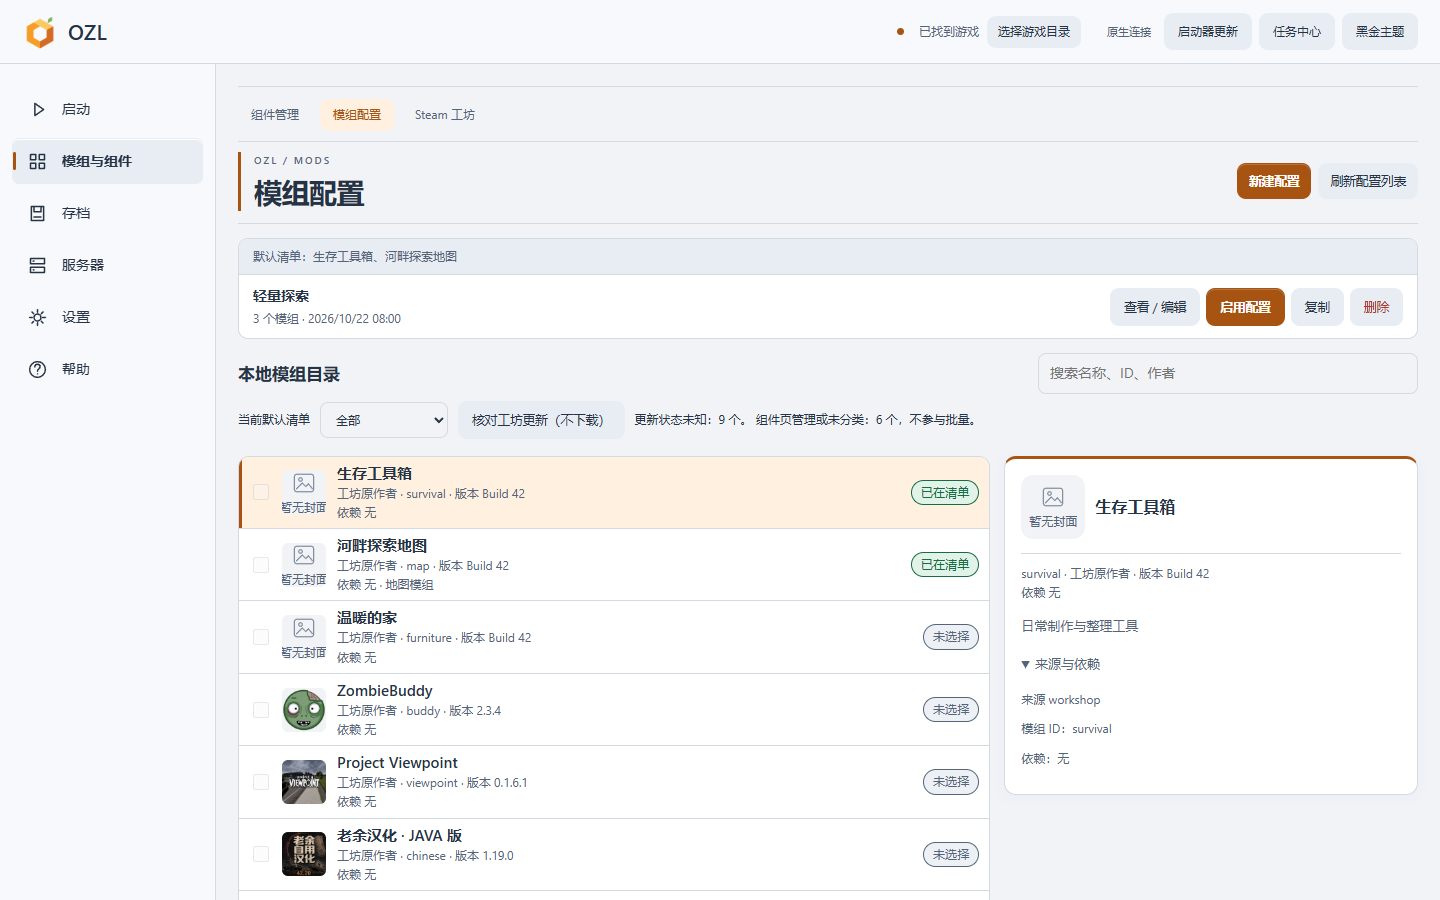
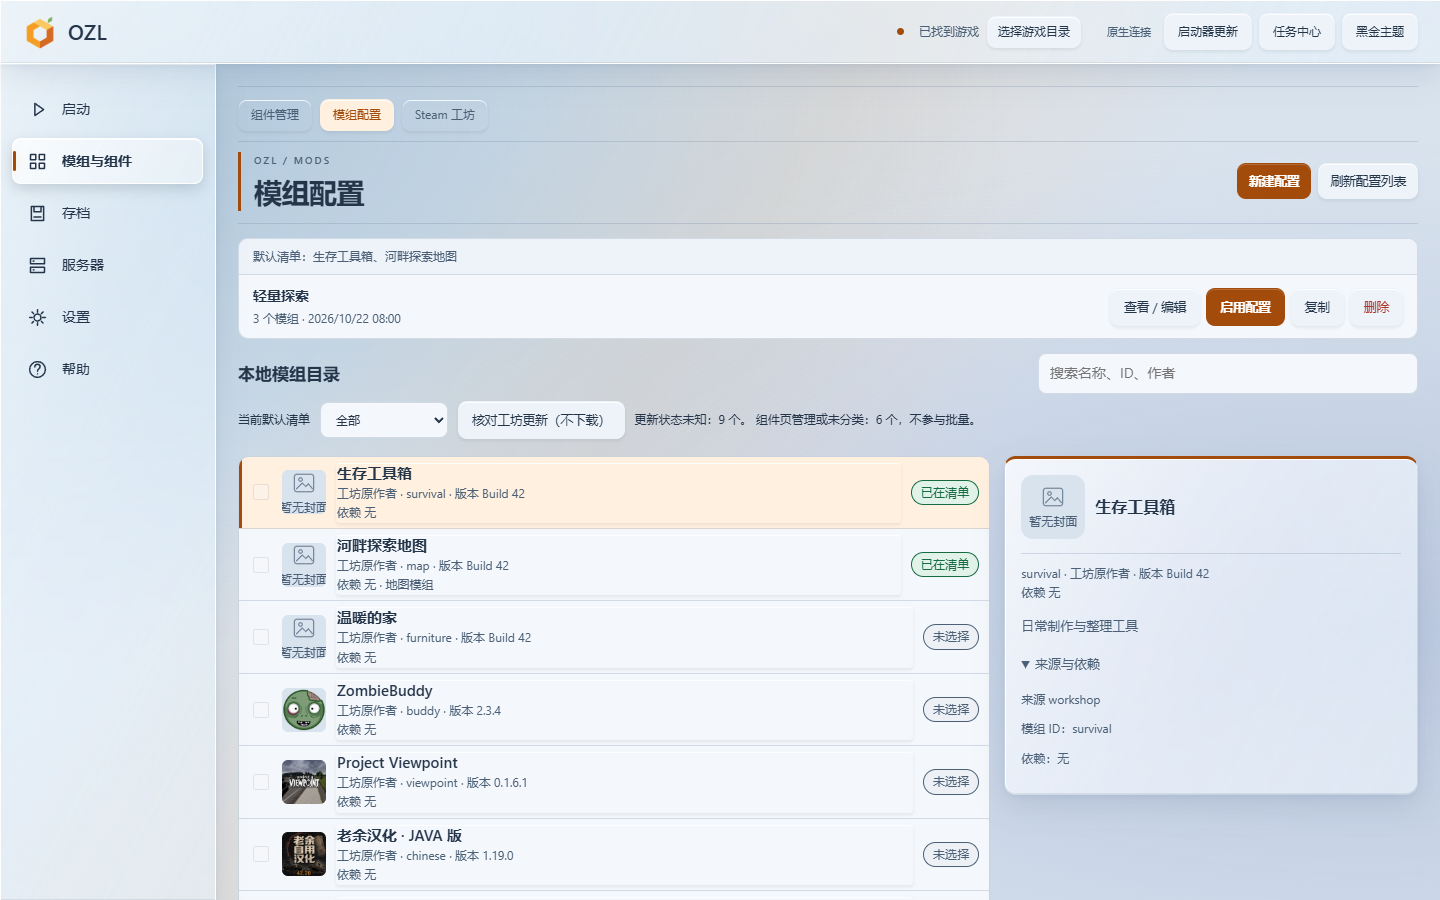
feat(site): match accepted launcher glass and finite selection motion

diff --git a/website/site.css b/website/site.css
@@ -155,6 +155,29 @@ dialog p{font-size:13px;margin:12px 0 0}
 .steps{grid-template-columns:1fr;gap:12px;margin-block:26px 32px}.steps li{position:relative;padding:20px 20px 20px 58px}.steps li::before{position:absolute;left:20px;top:23px;margin:0}.steps h2{font-size:19px}.steps p{font-size:14px}
 .change-entry{grid-template-columns:1fr;gap:14px;padding:22px}.change-version{display:flex;align-items:center;justify-content:space-between;gap:16px}.change-version h2{margin:0}.footer-links{gap:8px 22px}.preview{padding-top:24px}
 }
+/* Milk glass: ambient depth, refracting planes, and lit lens edges. */
+.hero{padding-block:12px 8px}
+:root{--bg:#cdd8e5;--ink:#24364b;--muted:#4c627a;--line:#8da4bd59;--orange:#a4470b;--tint:#fff2e0b8}
+body{background:radial-gradient(ellipse at 7% 22%,#a9c9dfa3 0,transparent 43%),radial-gradient(ellipse at 87% 41%,#9aacc999 0,transparent 44%),radial-gradient(ellipse at 48% 72%,#d5c9b9a6 0,transparent 40%),linear-gradient(125deg,#dae8f0,#c6d2e2 56%,#e2e3e1);background-attachment:fixed}
+.site-header,.tabs button,[role=tabpanel],.panel-copy,.download-card,.steps li,.change-entry,dialog{background-color:rgba(240,247,252,.46);backdrop-filter:blur(24px) saturate(118%);border-color:#ffffffa8;box-shadow:inset 0 1px 0 #ffffffd9,inset 1px 0 0 #ffffff69,0 2px 3px #33465a12,0 15px 38px #34496224}
+.site-header{background-image:linear-gradient(110deg,#ffffff45,#d9e7f43b 60%,#ffffff18);border-bottom-color:#8fa8c66b}
+.site-header nav a[aria-current=page]{box-shadow:inset 0 1px #ffffffd1,0 2px 5px #364c6012}
+.tabs{padding:6px;border:1px solid #ffffff60;border-radius:17px;background:linear-gradient(120deg,#7892af20,#ffffff30);box-shadow:inset 0 1px 3px #52698419,0 1px #ffffff9c}
+.tabs button{position:relative;background-color:rgba(235,244,251,.36);border-radius:11px;padding:12px 11px;box-shadow:inset 0 1px #ffffffbf,0 2px 3px #263d5815,0 7px 18px #34496212}
+.tabs button:hover{background-color:#f5faff9c;box-shadow:inset 0 1px #fff,0 8px 19px #34496225}
+.tabs button[aria-selected=true]{background:#f4f9fcb8;border-color:#fff;box-shadow:inset 0 1px #fff,inset 3px 0 var(--orange),0 3px 6px #263d5819,0 10px 20px #3449621c}
+[role=tabpanel]{border:1px solid #ffffffb0;box-shadow:inset 0 1px #ffffffd9,0 0 0 6px #f1f8ff38,0 3px 6px #24394c26,0 28px 65px #283e5a36;background-color:rgba(214,227,241,.46)}
+.preview-toolbar{background:linear-gradient(115deg,#edf7ffb8,#c0d1e37d);box-shadow:inset 0 1px #ffffffc4;color:#344c65}
+.preview-image{padding:7px;background:linear-gradient(125deg,#263a4ce6,#62768c96 50%,#1e2d3de6);box-shadow:inset 0 1px 4px #0c172a52}
+.app-shot{border:1px solid #ffffff60;border-radius:7px}
+.panel-copy{background-color:rgba(240,247,252,.4);border:0;border-top:1px solid #ffffffab;box-shadow:inset 0 1px #ffffff80,0 -8px 24px #2b405a0a}
+.download-card,.steps li,.change-entry{background-image:linear-gradient(120deg,#ffffff39,#c5d9eb29)}
+.download-card:hover{border-color:#ffffff;box-shadow:inset 0 1px #fff,0 18px 38px #34496230}
+select,.dialog-bar button{background:#f1f7fba3;border-color:#ffffffa6;box-shadow:inset 0 1px #fff,0 2px 4px #34496219}
+dialog{background-color:rgba(220,232,243,.88);border-color:#ffffffc4;box-shadow:inset 0 1px #fff,0 30px 100px #0b172c66}
+dialog::backdrop{background:#15263999;backdrop-filter:blur(12px)}
+.image-scroll{border:1px solid #ffffff70;border-radius:7px;background:#182735;box-shadow:0 8px 24px #142b4530}
+@media(max-width:800px){.tabs button{padding:12px}.preview-image{padding:4px}.tabs{padding:5px}.panel-copy{padding:16px}}
 @media(prefers-reduced-motion:reduce){html{scroll-behavior:auto}
 *,*::before,*::after{animation:none!important;transition:none!important}
 }

diff --git a/website/site.js b/website/site.js
@@ -96,10 +96,12 @@
   function selectFeature(id) {
     selected = id;
     tabs.forEach(tab => {
+      stop(tab);
       const active = tab.dataset.feature === id;
       tab.setAttribute('aria-selected', String(active));
       tab.tabIndex = active ? 0 : -1;
     });
+    enter(tabs.find(tab => tab.dataset.feature === id), 260);
     panel.setAttribute('aria-labelledby', 'tab-' + id);
     document.querySelector('[data-feature-title]').textContent = features[id][0];
     document.querySelector('[data-feature-description]').textContent = features[id][1];
@@ -115,7 +117,7 @@
     previewError.hidden = true;
     enlarge.disabled = false;
     watchScreenshot(nextImage);
-    nextImage.src = 'assets/launcher-' + id + '-' + theme.value + '.png?v=20261024-fluent';
+    nextImage.src = 'assets/launcher-' + id + '-' + theme.value + '.png?v=20261024-c-glass';
     enter(panel);
   }
   retryImage.addEventListener('click', () => {

diff --git a/website/index.html b/website/index.html
@@ -77,7 +77,7 @@
 <div role="tabpanel" id="feature-panel" aria-labelledby="tab-home">
 <div class="preview-toolbar"><span><img src="assets/orange-app.png" width="20" height="20" alt=""> OZL / 橙子启动器 <span class="toolbar-platform">Windows x64</span></span><button class="text-link" type="button" data-enlarge>查看大图 ↗</button></div>
 <div class="preview-image">
-<img class="app-shot" src="assets/launcher-home-dark.png?v=20261024-fluent" width="1440" height="900" alt="启动首页深色界面" data-feature-image>
+<img class="app-shot" src="assets/launcher-home-dark.png?v=20261024-c-glass" width="1440" height="900" alt="启动首页深色界面" data-feature-image>
 <div class="preview-error" data-preview-error hidden><p role="status">预览图片加载失败</p><button type="button" class="button secondary" data-retry-image>重试图片</button></div>
 </div>
 <div class="panel-copy">
